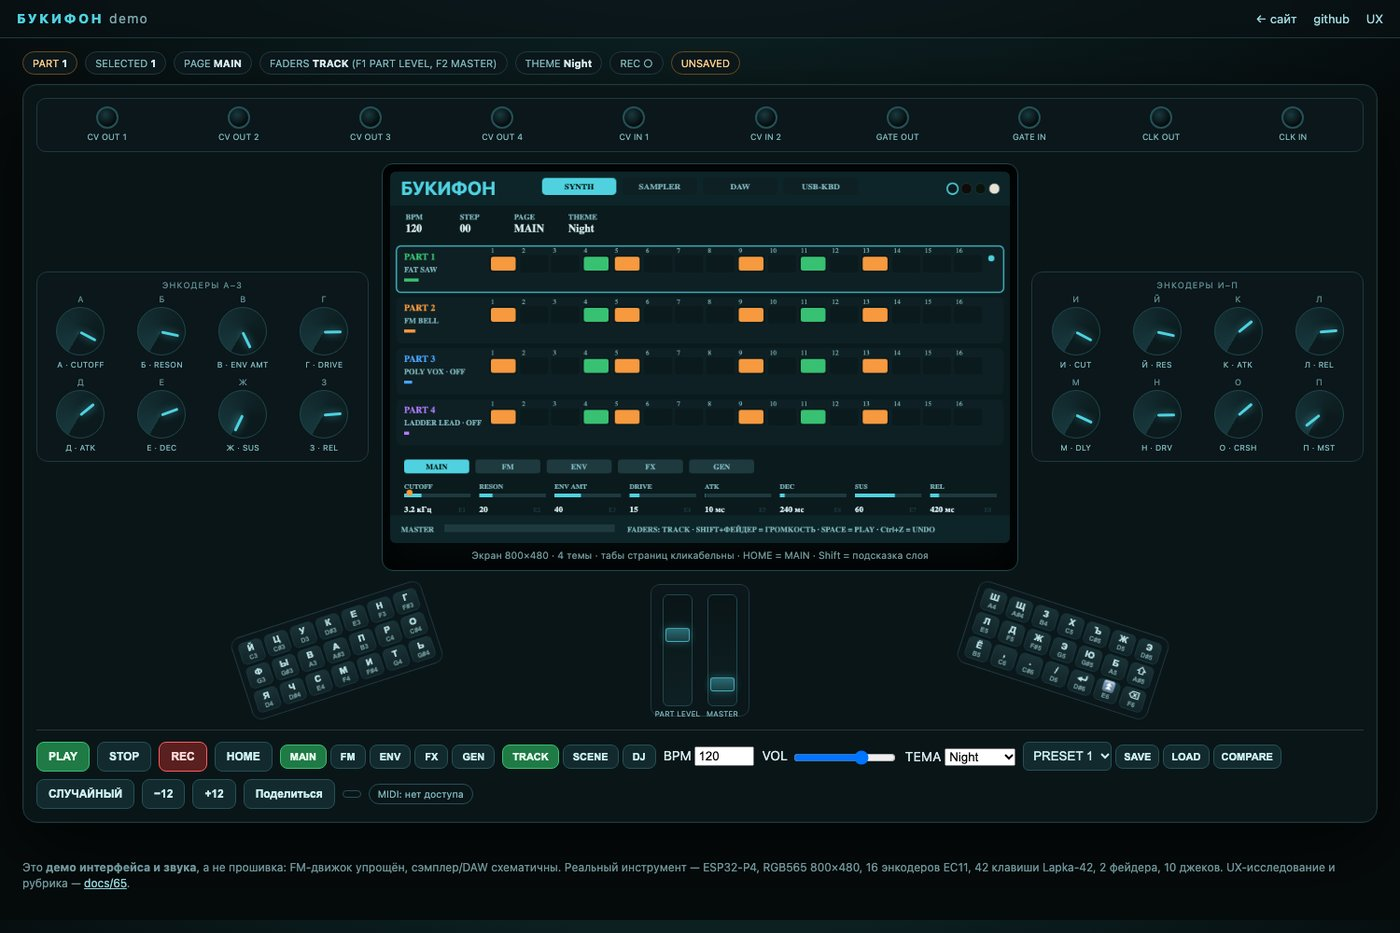
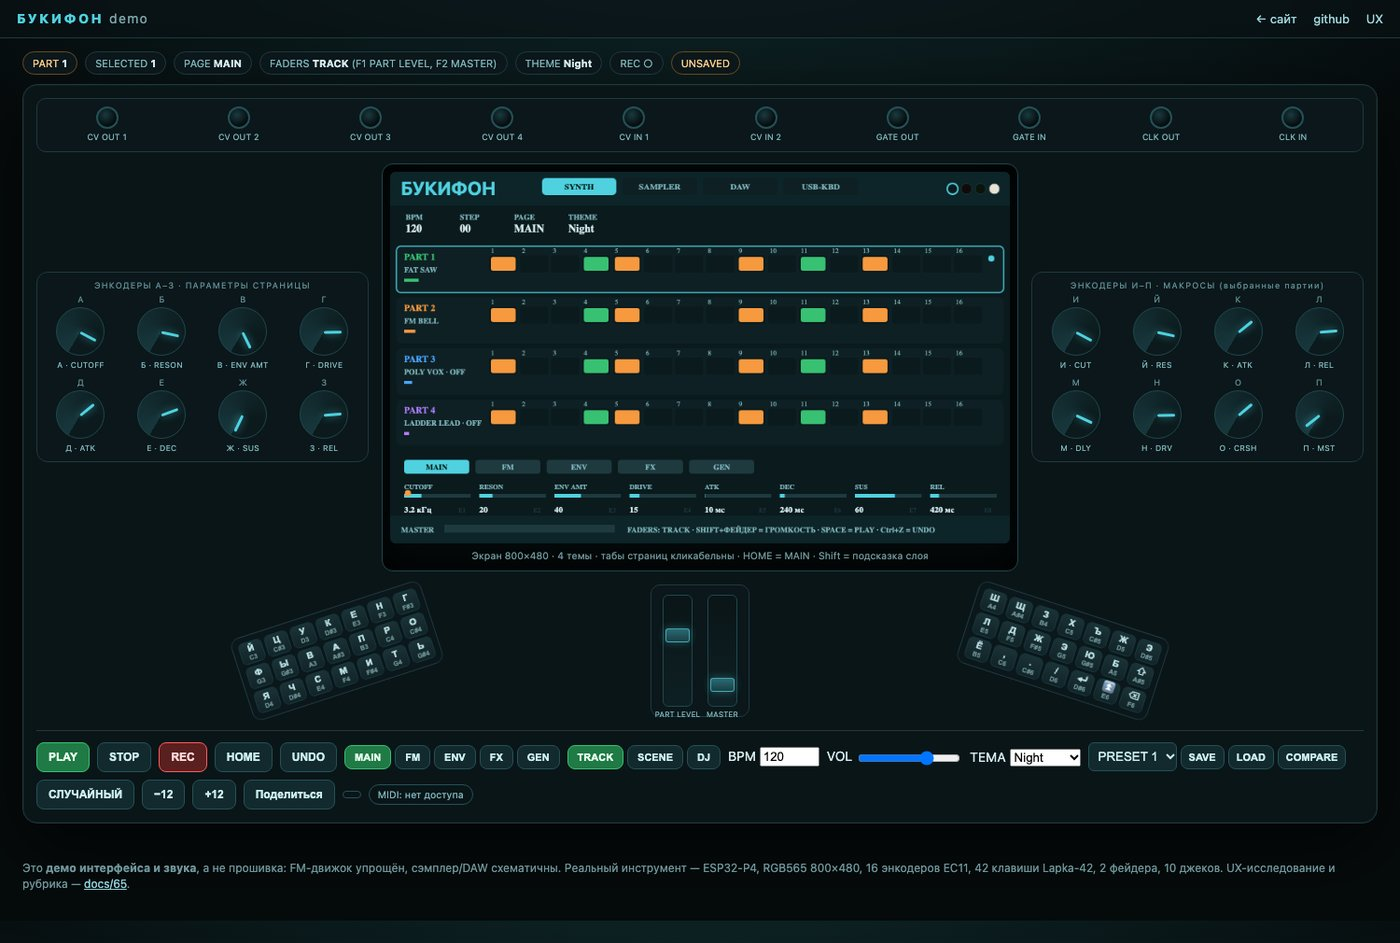
site: демо-панель как реальный синтезатор (docs/67), ревью 8.5/10, скриншот обновлён

diff --git a/docs/index.html b/docs/index.html
@@ -151,13 +151,10 @@ footer{padding:30px 0 60px;color:var(--mut);font-size:14px}
 <section id="demo">
   <h2>Попробуйте интерфейс в браузере</h2>
   <a href="demo/" class="hero-link"><img src="assets/web-demo.jpg" alt="Веб-демо Букифона: секвенсор, 16 энкодеров, 42 клавиши" class="hero-img" loading="lazy"></a>
-  <p><strong>Интерактивное демо:</strong> 4 партии × 16 шагов, 16 энкодеров, 42 клавиши Lapka-42,
-     2 фейдера, 10 джеков, FM-звук и Web MIDI. Это модель UI/UX, а не прошивка — но потрогать логику
-     инструмента можно уже сейчас.</p>
+  <p><strong>Интерактивное демо — панель как у реального синтезатора:</strong> 10 джеков сверху, 16 энкодеров (4×2 слева А–З, 4×2 справа И–П) вокруг экрана 800×480, два кластера клавиш 3×7 под ∓18°, 2 фейдера между ними; 4 партии × 16 шагов, GEN-страница, FM-звук и Web MIDI. Это модель UI/UX, а не прошивка.</p>
   <p><a class="cta" href="demo/">Открыть демо →</a></p>
-  <p style="color:#6f969b;font-size:12px">UX-рубрика <strong>9/10</strong>: L1 всегда на экране, L2 — одним жестом, L3 (генеративность) — GEN-страница;
-     паттерны Elektron/Kaleidoscope — <a href="https://github.com/martiyanov/bukifon/blob/main/docs/65-ux-patterns.md">docs/65</a>.</p>
-  <p style="color:#6f969b;font-size:12px">В демо: 16 энкодеров (8 страниц + 8 макросов), фейдеры TRACK/SCENE/DJ + Shift, REC-ресемплинг, 4 темы, share паттерна.</p>
+  <p style="color:#6f969b;font-size:12px">Внешнее ревью: <strong>8,5/10</strong>; топология панели совпадает с реальной (<a href="https://github.com/martiyanov/bukifon/blob/main/docs/67-panel-demo-layout.md">docs/67</a>); контекст-строка, HOME, UNDO, COMPARE; UX-паттерны — <a href="https://github.com/martiyanov/bukifon/blob/main/docs/65-ux-patterns.md">docs/65</a>.</p>
+  <p style="color:#6f969b;font-size:12px">В демо: страницы MAIN/FM/ENV/FX/GEN, макросы выбранных партий, фейдеры TRACK/SCENE/DJ + Shift, REC-ресемплинг, пресеты/COMPARE, 4 темы, share паттерна.</p>
 </section>
 
 <section id="design">
